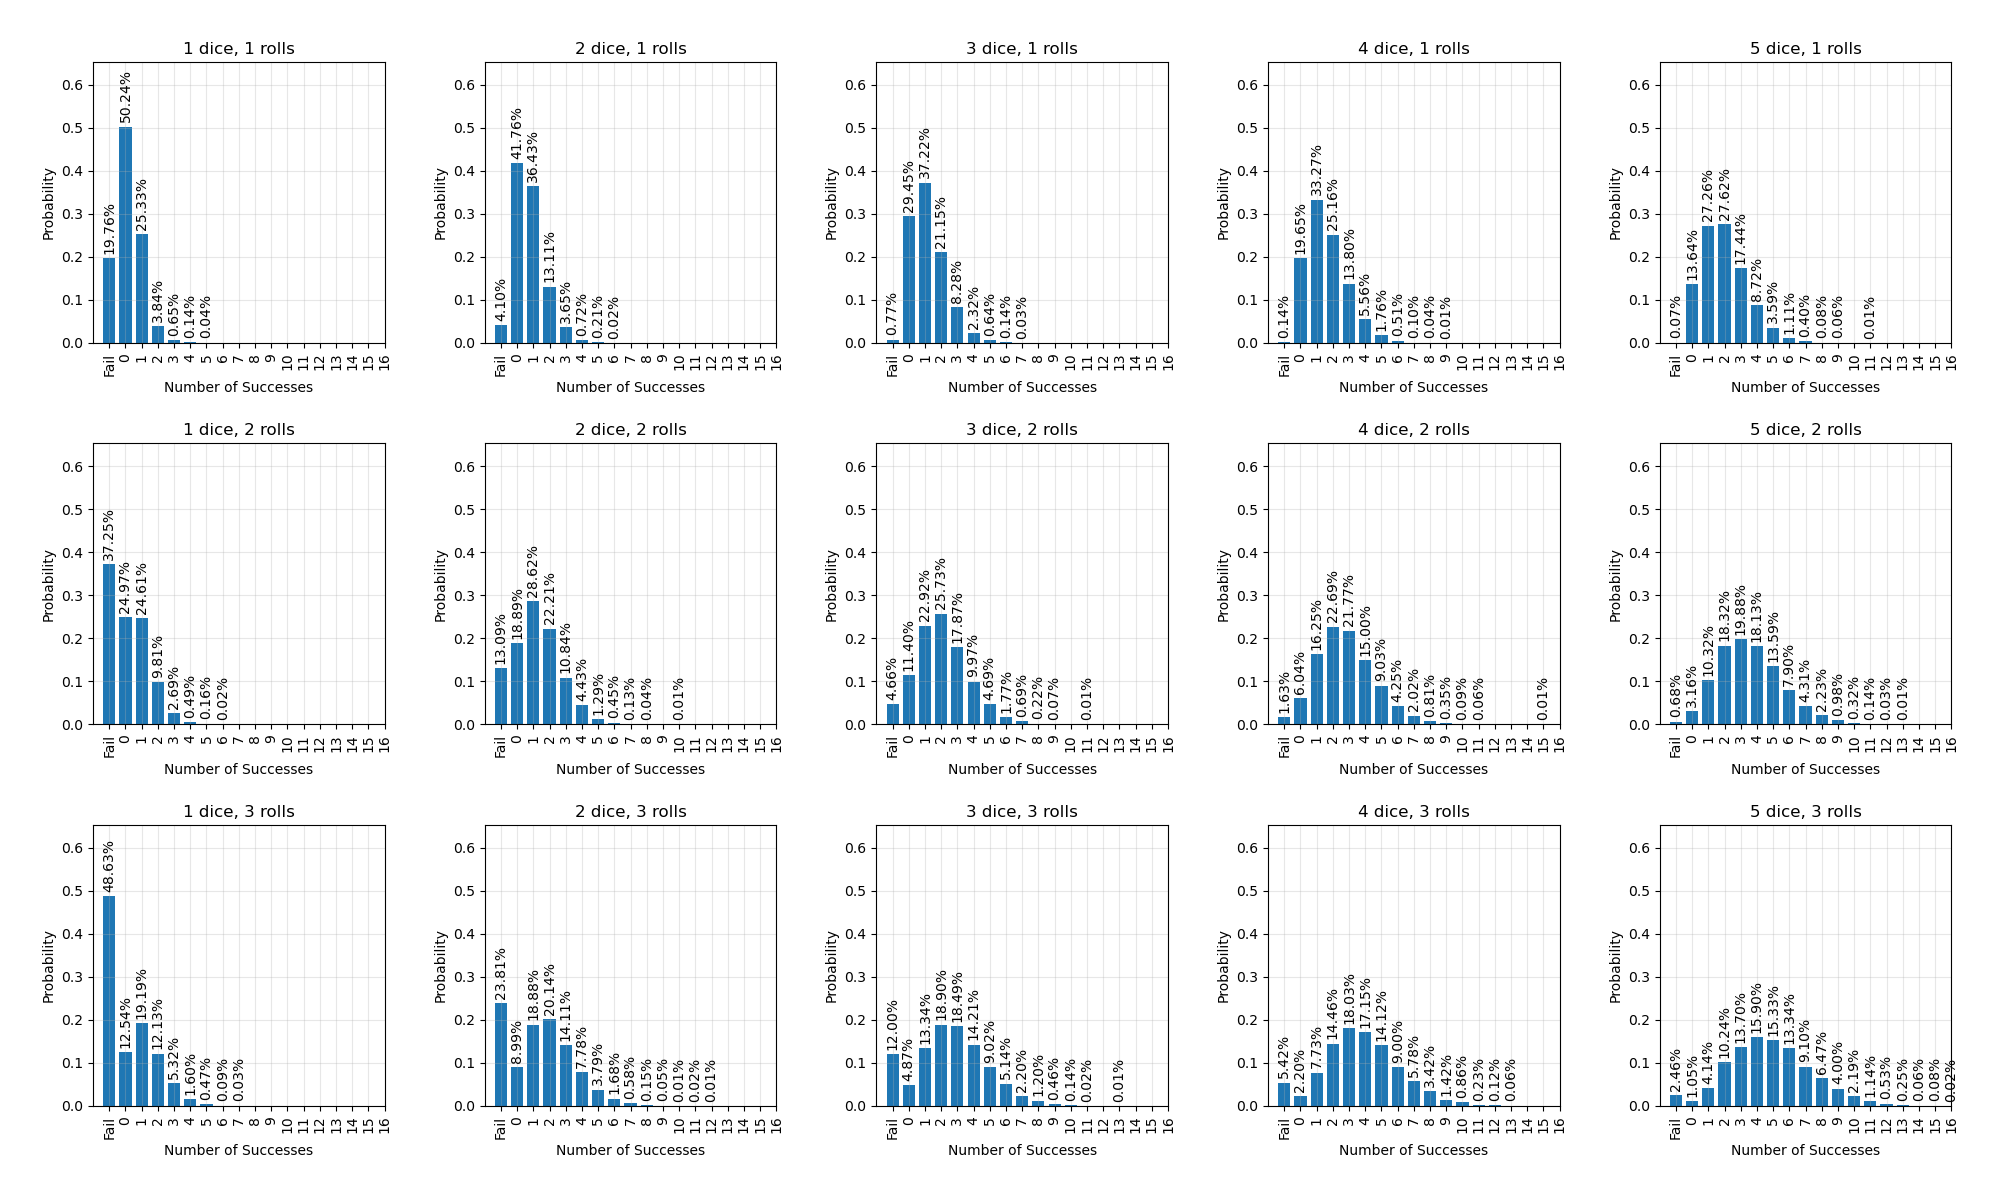
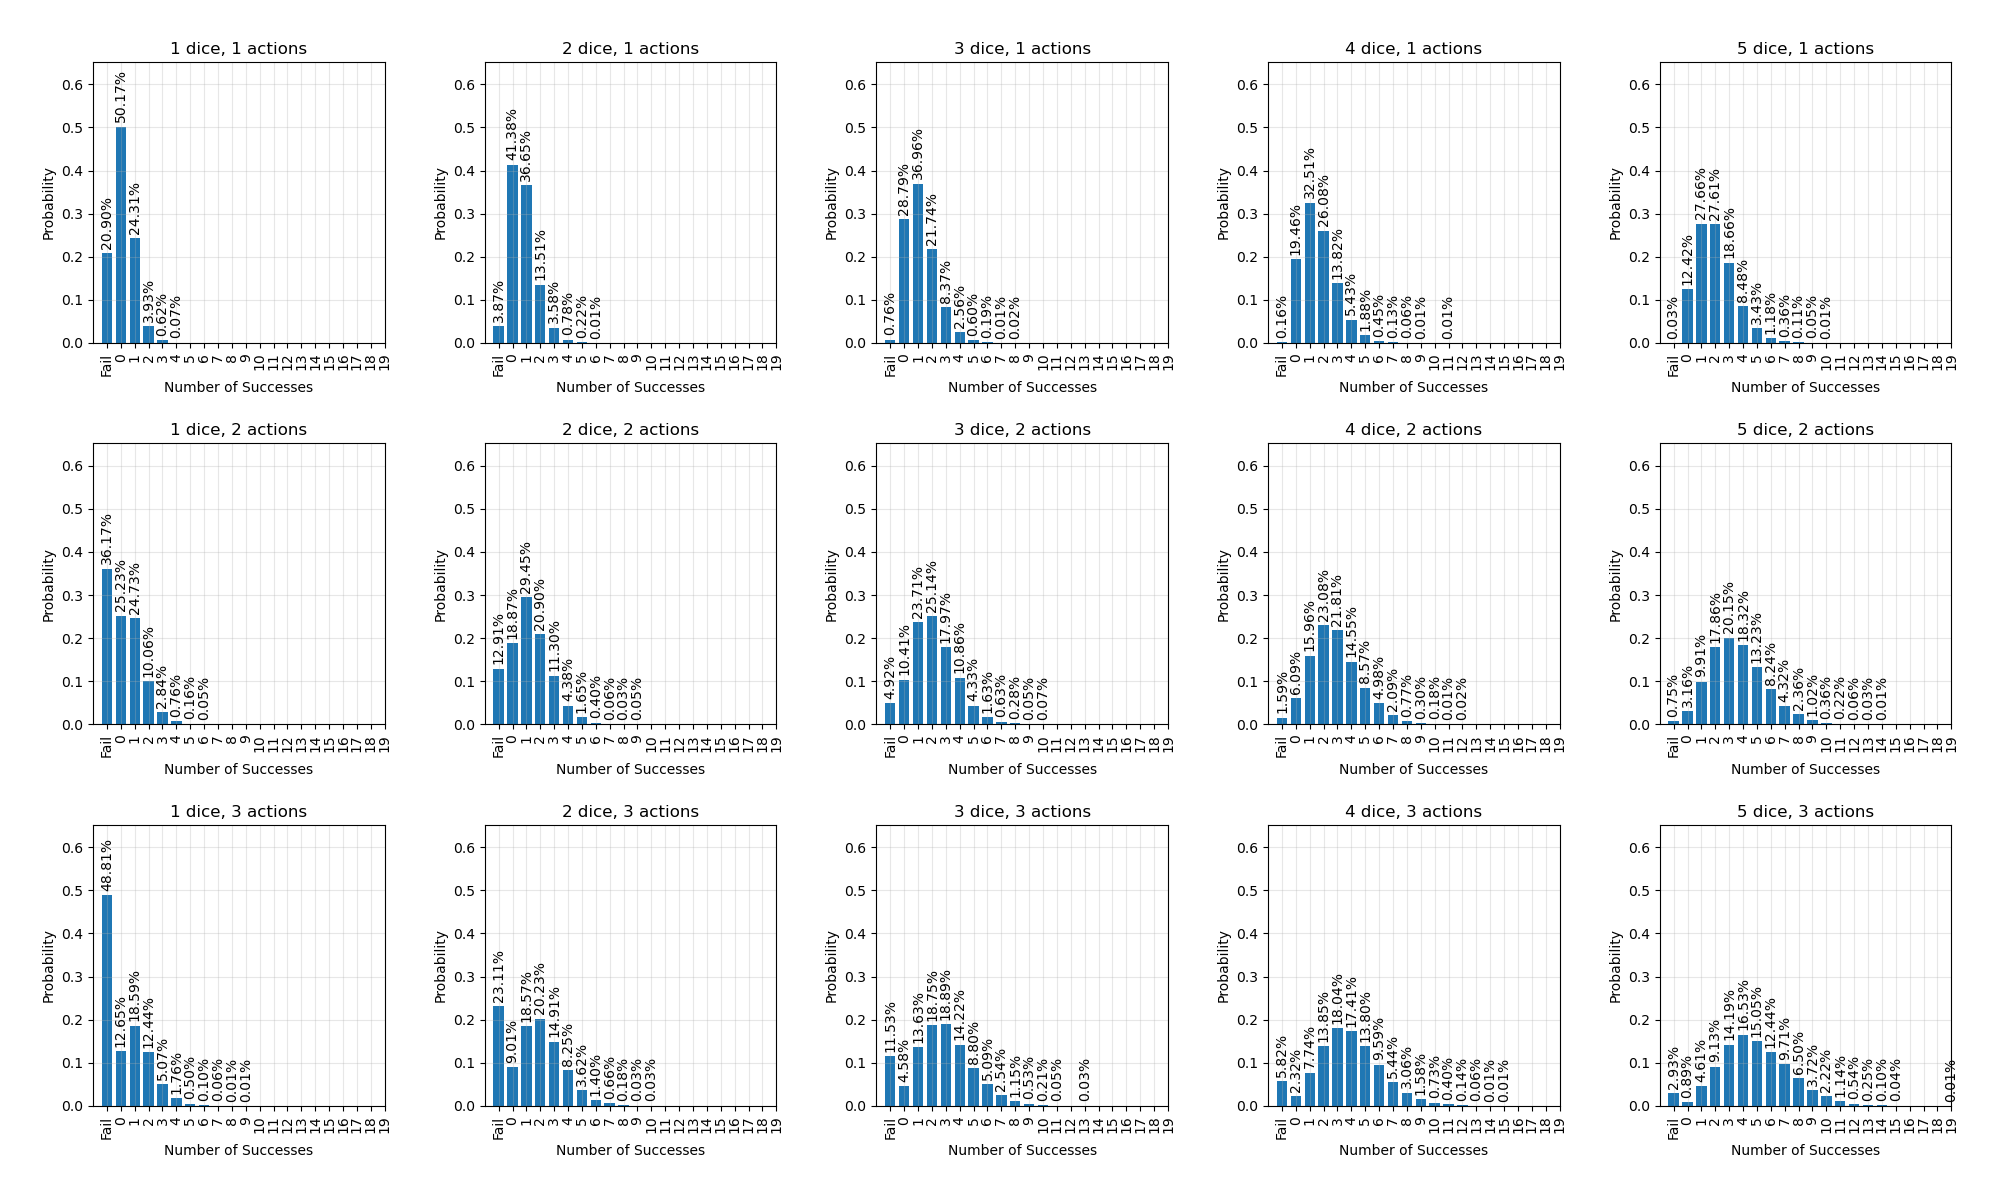
use actions terminology rather than rolls

diff --git a/dark-veil.py b/dark-veil.py
@@ -75,7 +75,7 @@ def plot_probability_distribution(success_counts, num_dice, num_rolls, max_succe
     
     # Plot with bars shifted right by 0.5
     bars = plt.bar([val + 0.5 for val in x], y, width=0.75)
-    plt.title(f'{num_dice} dice, {num_rolls} rolls')
+    plt.title(f'{num_dice} dice, {num_rolls} actions')
     plt.xlabel('Number of Successes')
     plt.ylabel('Probability')
     plt.xlim(-1.5, max_successes + 0.5)  # Adjust x-axis to include -1

diff --git a/README.md b/README.md
@@ -1,6 +1,6 @@
 # Dark Veil Dice Roll Simulator
 
-This Python script simulates and visualizes the probability distribution of dice rolls in the Dark Veil system. It helps understand the statistical outcomes of different combinations of dice and rolls.
+This Python script simulates and visualizes the probability distribution of dice rolls in the Dark Veil system. It helps understand the statistical outcomes of different combinations of dice and actions.
 
 ## Features
 
@@ -12,7 +12,7 @@ This Python script simulates and visualizes the probability distribution of dice
   - If all dice are burned, it's a critical failure
 - Generates probability distributions for different combinations of:
   - Number of dice (1-5)
-  - Number of rolls (1-3)
+  - Number of actions (1-3)
 - Creates a comprehensive visualization showing all combinations
 
 ## Usage
@@ -31,7 +31,7 @@ python dark-veil.py --plot
 
 ## Example Output
 
-The script generates a plot showing the probability distribution for each combination of dice and rolls:
+The script generates a plot showing the probability distribution for each combination of dice and actions:
 
 ![Dark Veil Probability Distribution](dark-veil.png)
 
